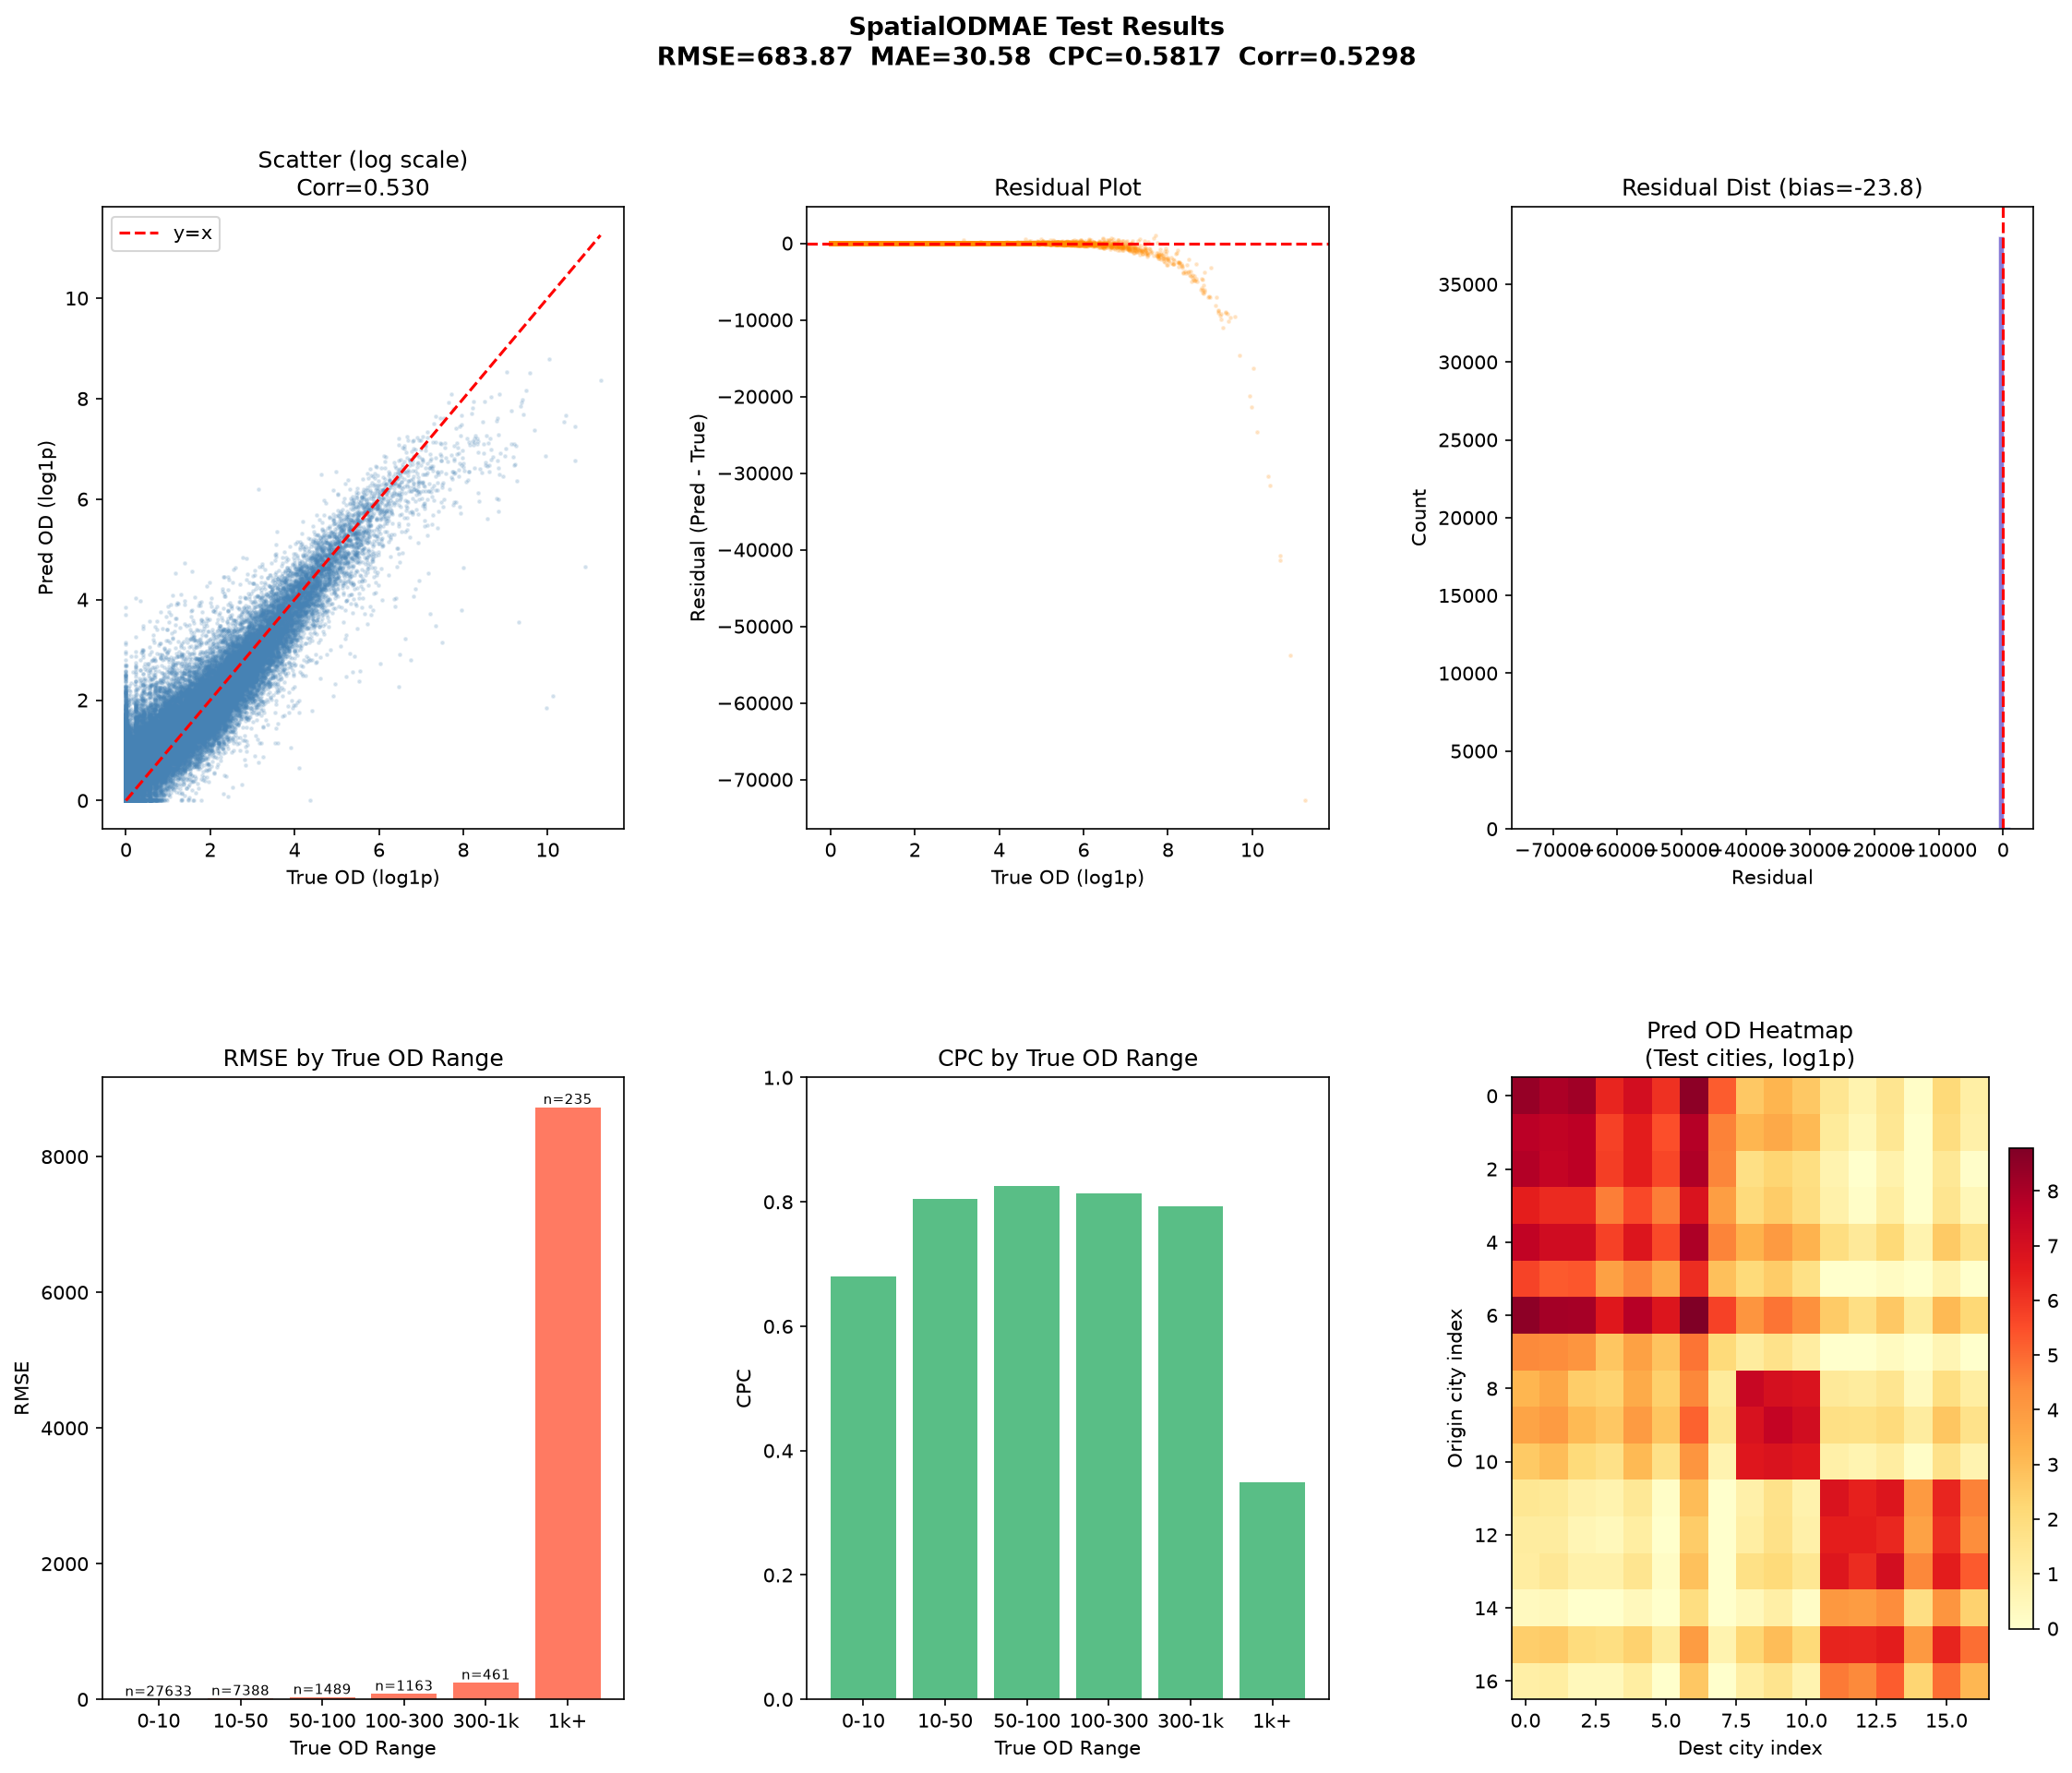
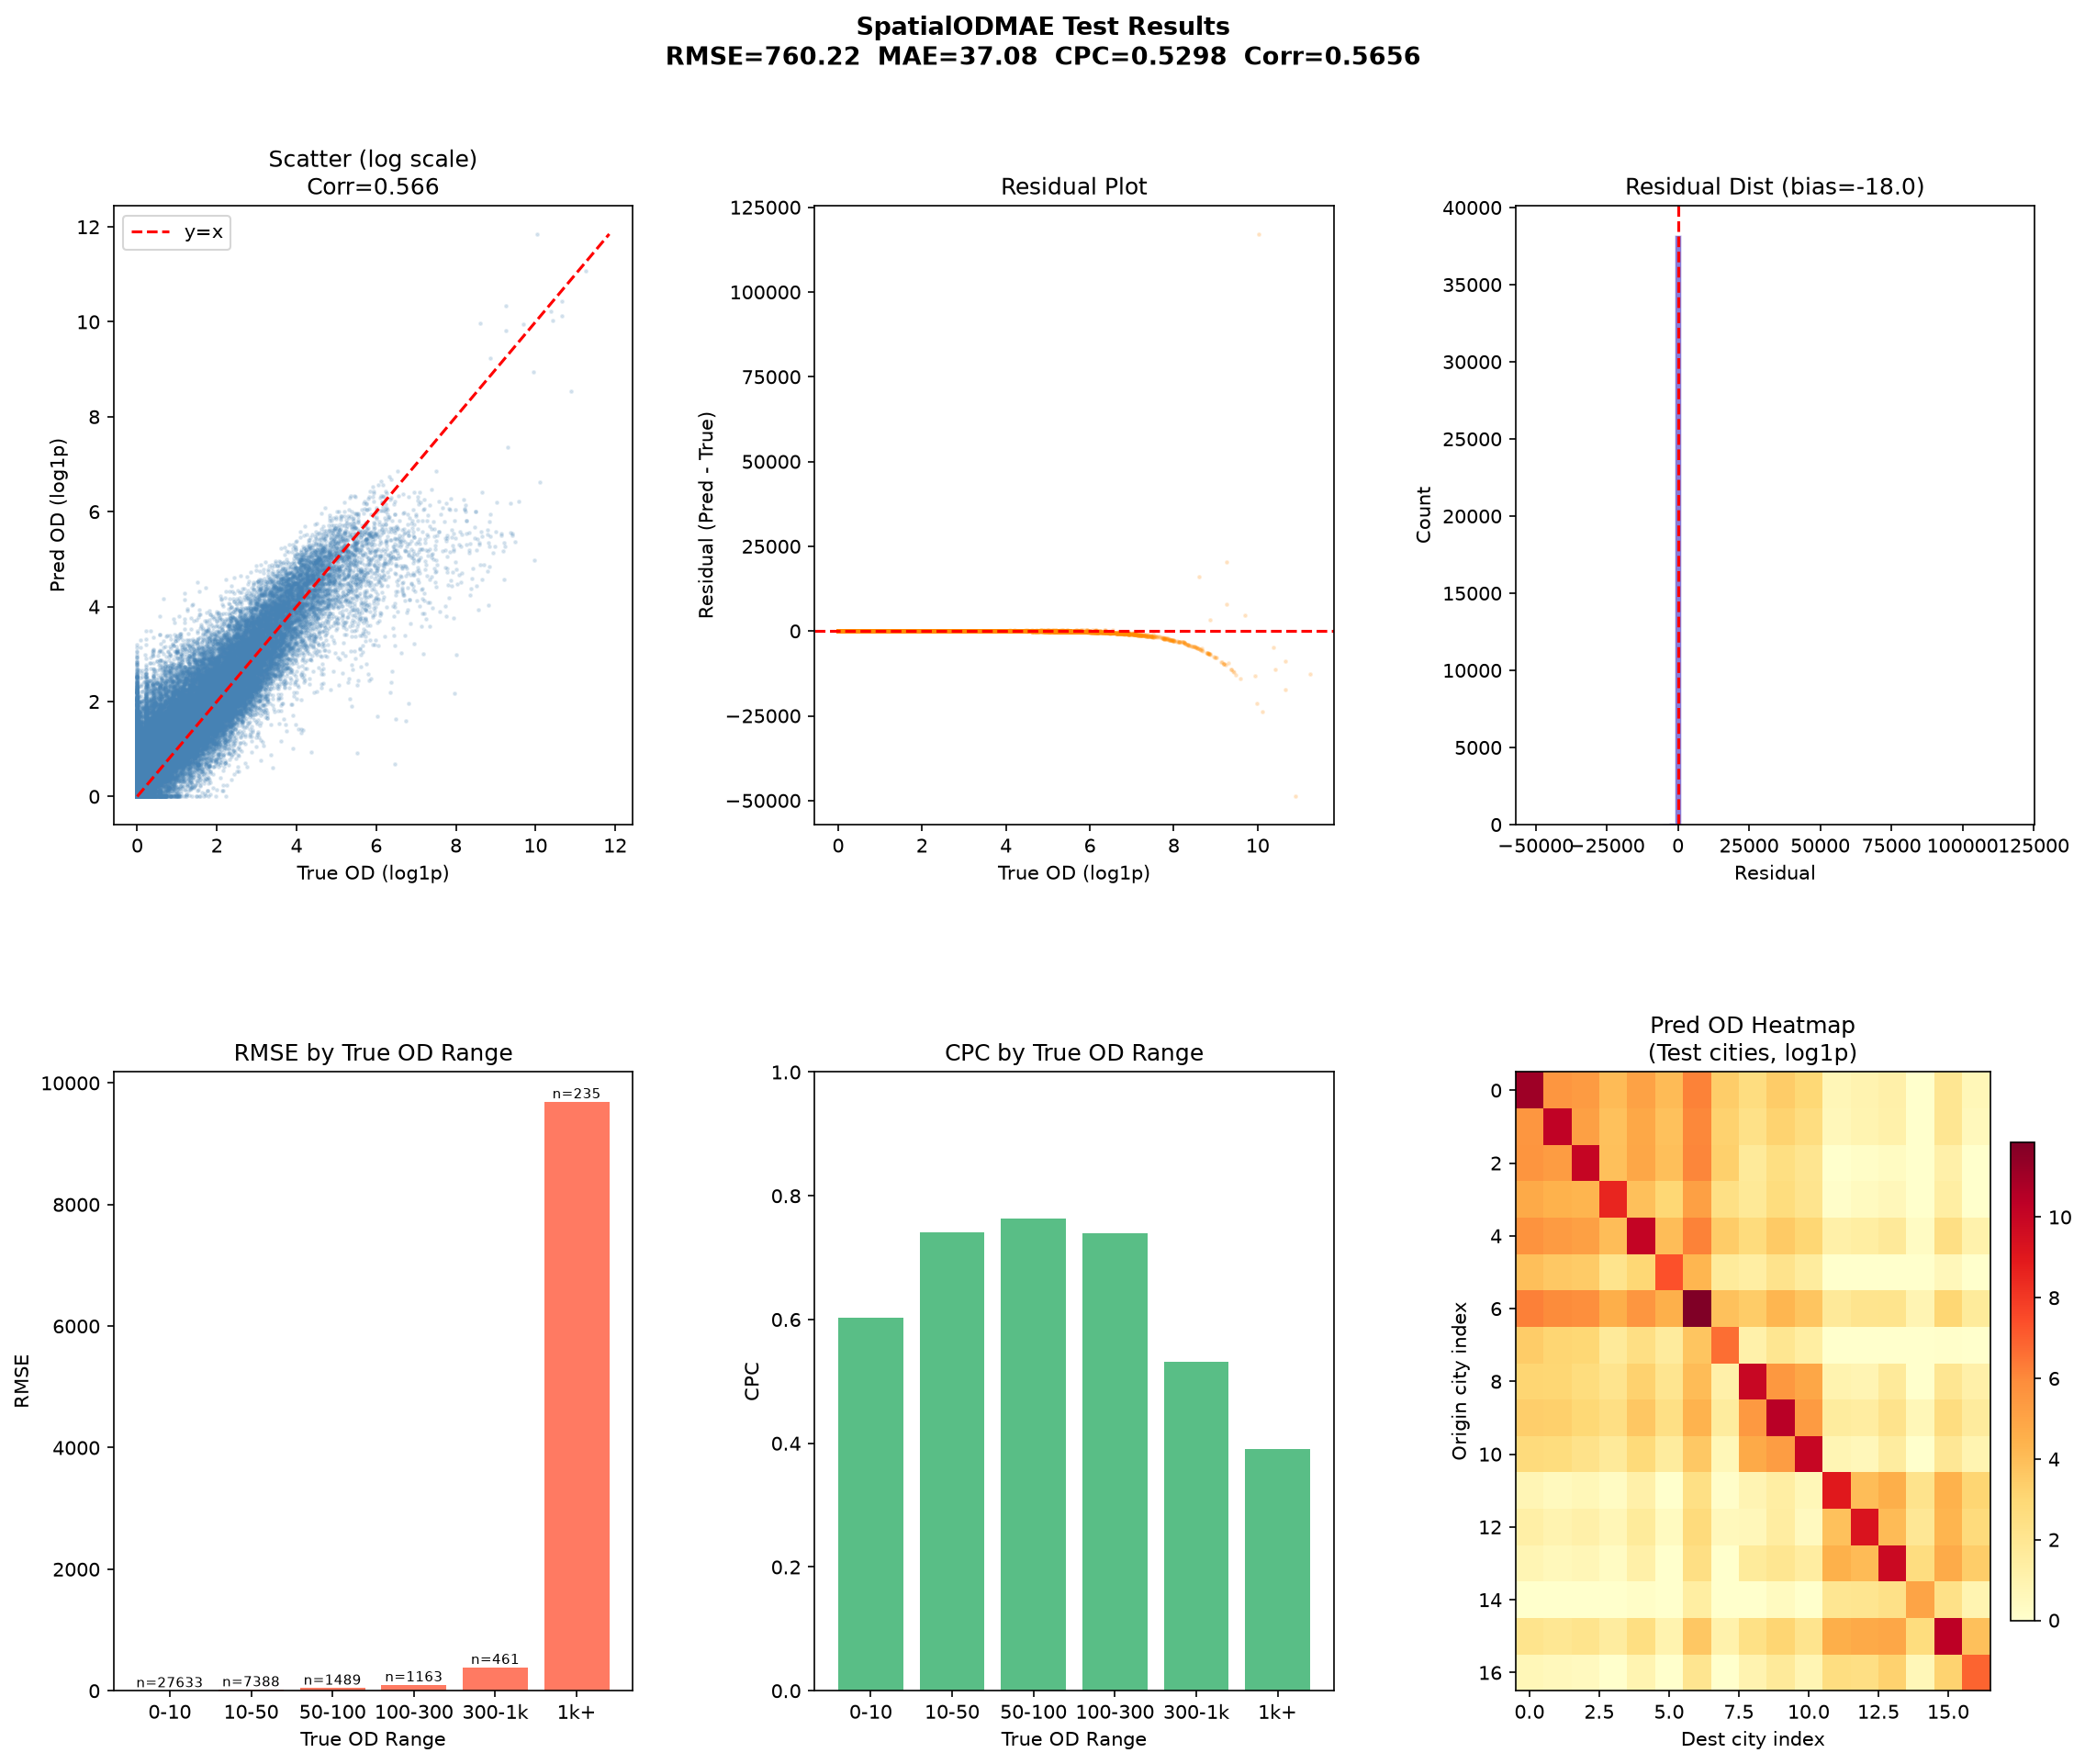
self 분리

diff --git a/src/mae/models.py b/src/mae/models.py
@@ -19,6 +19,15 @@ class SpatialODMAE(nn.Module):
             nn.Sigmoid()
         )
         
+        # 자기동 내부 통행량 직접 예측을 위한 작은 MLP
+        self.self_loop_predictor = nn.Sequential(
+            nn.Linear(d_model, d_model),
+            nn.GELU(),
+            nn.Linear(d_model, d_model // 2),
+            nn.GELU(),
+            nn.Linear(d_model // 2, 1)
+        )
+        
         # distance based 상대 positional bias
         self.nhead = nhead
         self.distance_bias = nn.Embedding(50, nhead)
@@ -88,7 +97,18 @@ class SpatialODMAE(nn.Module):
         # out: (B, N, 2N) - decode
         out = self.decoder(x) 
         
-        # Average
-        pred_od = (out[..., :N] + out[..., N:].transpose(1, 2)) / 2.0
+        # 디코딩 결과를 Outgoing과 Incoming으로 나누고, Symmetric Agreement를 위해 평균
+        pred_outgoing = out[..., :N] 
+        pred_incoming = out[..., N:].transpose(1, 2) 
+        pred_od = (pred_outgoing + pred_incoming) / 2.0
+        
+        self_loop_pred = self.self_loop_predictor(feat_emb).squeeze(-1) # (B, N, D) -> (B, N)
+        
+        # Batch 차원과 Node 차원을 위한 인덱스 생성
+        b_idx = torch.arange(B).unsqueeze(-1) # (B, 1)
+        n_idx = torch.arange(N).unsqueeze(0)  # (1, N)
+        
+        
+        pred_od[b_idx, n_idx, n_idx] += self_loop_pred
         
         return pred_od

diff --git a/src/mae/loss.py b/src/mae/loss.py
@@ -17,14 +17,27 @@ class HuberLossWrapper(nn.Module):
 
 # 이게 정확도가 높게 나옴.
 class WeightedMSELossWrapper(nn.Module):
-    def __init__(self):
+    def __init__(self, real_penalty_weight=0.005):
         super().__init__()
+        self.real_penalty_weight = real_penalty_weight
         
     def forward(self, pred, target, current_alpha, mask=None):
         if mask is not None:
             pred = pred[mask]
             target = target[mask]
             
+        # 1. Base Log-scale Weighted MSE (기존: CPC 및 분포 학습용)
         weight = 1.0 + current_alpha * target
-        loss = ((pred - target) ** 2) * weight
+        log_loss = ((pred - target) ** 2) * weight
+        
+        # 2. Real-scale Huber Penalty (추가: 튀는 RMSE 억제용)
+        # expm1 연산 시 무한대 발산(Gradient Explosion)을 막기 위해 pred를 12.0 이하로 안전하게 클리핑
+        pred_real = torch.expm1(torch.clamp(pred, max=12.0))
+        target_real = torch.expm1(target)
+        
+        # 실제 스케일에서 오차가 100을 넘어가면 선형(L1) 페널티를 주어 튀는 값들을 강하게 억제
+        real_loss = F.huber_loss(pred_real, target_real, delta=100.0, reduction='none')
+        
+        # 최종 Loss: 로그 오차 + (가중치 * 실제 오차)
+        loss = log_loss + (self.real_penalty_weight * real_loss)
         return loss.mean()

diff --git a/src/mae/train.py b/src/mae/train.py
@@ -67,7 +67,7 @@ def validate(model, dataset, val_indices, criterion, device):
 
 
 def main():
-    print("test"+str(1))
+    print("test"+str(2))
     parser = argparse.ArgumentParser()
     parser.add_argument('--epochs', type=int, default=TRAIN_CONFIG['epochs'])
     parser.add_argument('--batch_size', type=int, default=TRAIN_CONFIG['batch_size'])
@@ -141,15 +141,21 @@ def main():
 
             if rmse < best_val_rmse:
                 best_val_rmse = rmse
-                best_cpc = cpc
                 current_dir = os.path.dirname(os.path.abspath(__file__))
                 torch.save(model.state_dict(),
                            os.path.join(current_dir, best_model_path))
-                print(f"  ➜ [Checkpoint] Best saved! (RMSE:{rmse:.2f} CPC:{cpc:.4f})")
+                print(f"  ➜ [Checkpoint] Best RMSE saved! (RMSE:{rmse:.2f} CPC:{cpc:.4f})")
+
+            if cpc > best_cpc:
+                best_cpc = cpc
+                current_dir = os.path.dirname(os.path.abspath(__file__))
+                torch.save(model.state_dict(),
+                           os.path.join(current_dir, 'best_model_mae_cpc.pth'))
+                print(f"  ➜ [Checkpoint] Best CPC saved! (RMSE:{rmse:.2f} CPC:{cpc:.4f})")
 
             model.train()
 
-    print(f"\nTraining Complete. Best RMSE: {best_val_rmse:.2f} | CPC: {best_cpc:.4f}")
+    print(f"\nTraining Complete. Best RMSE: {best_val_rmse:.2f} | Best CPC: {best_cpc:.4f}")
 
 if __name__ == '__main__':
     main()